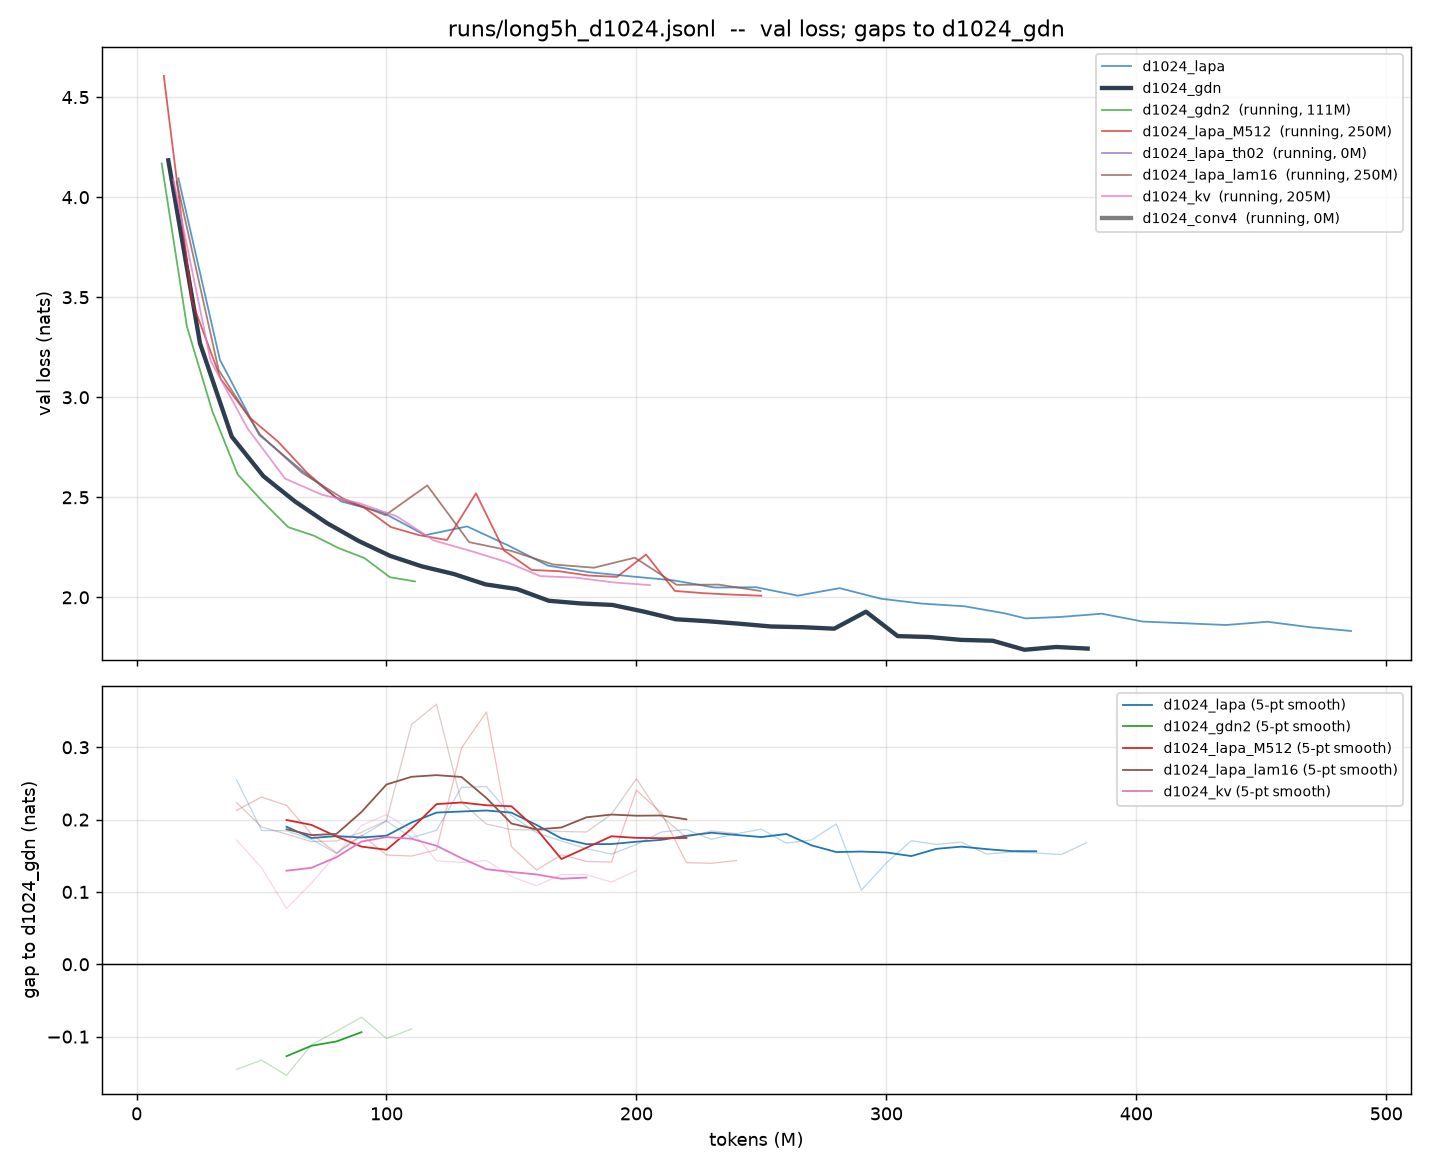
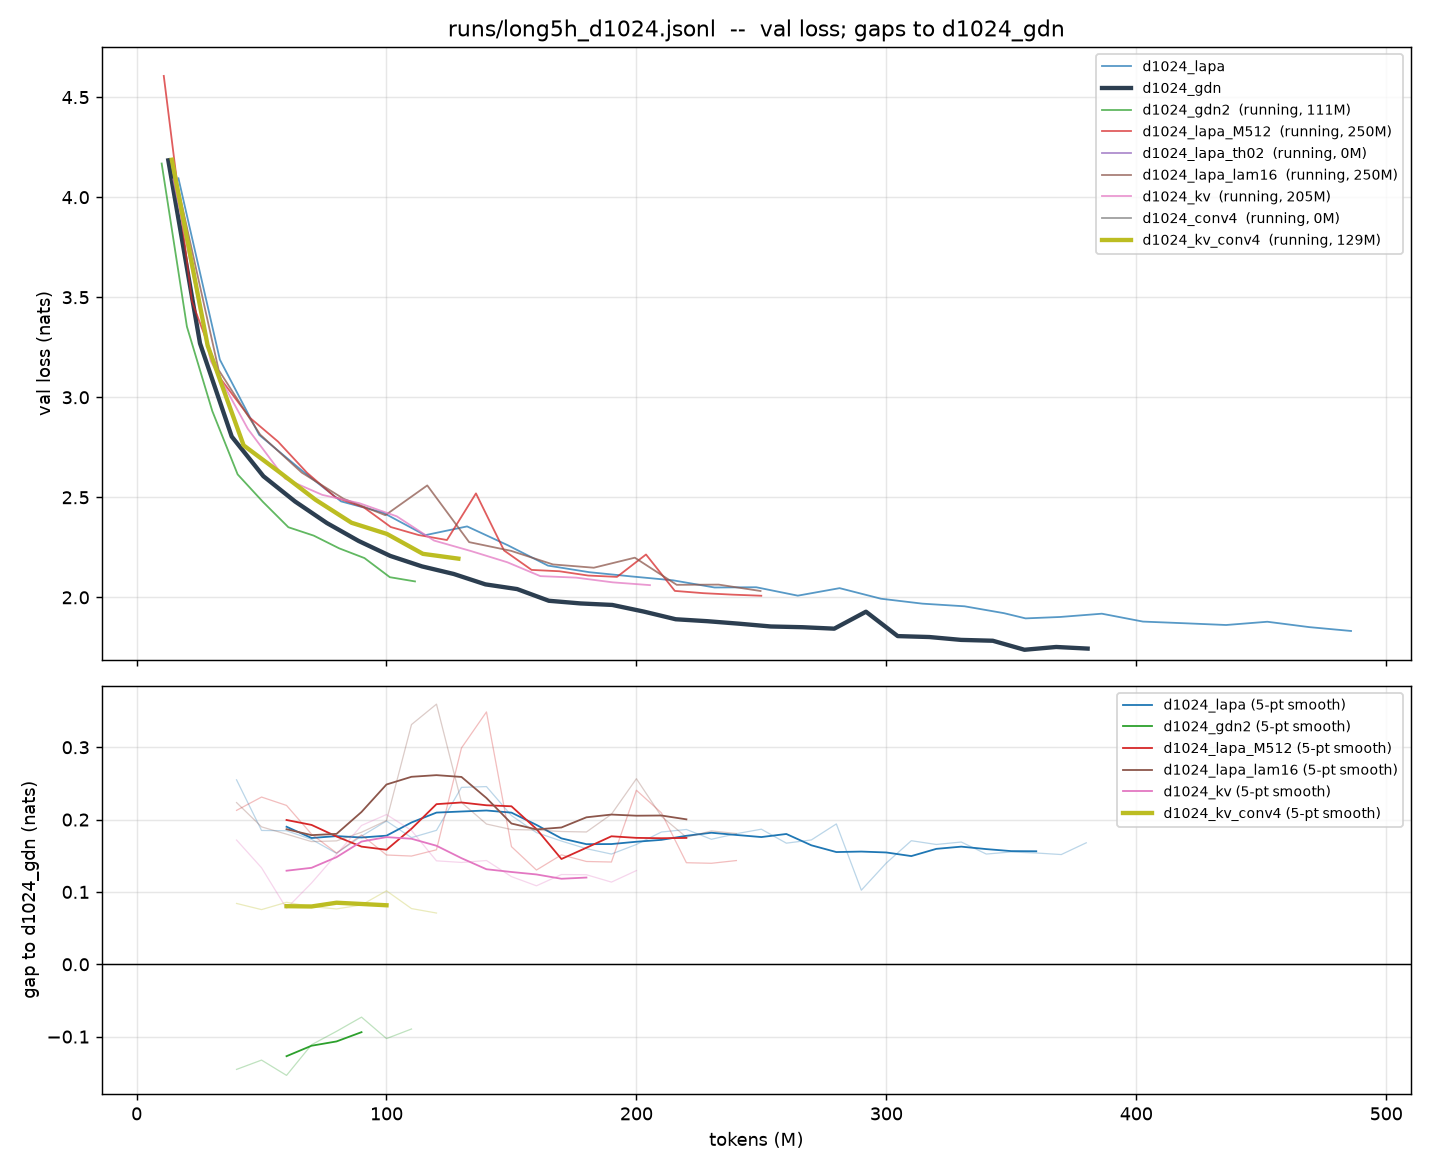
port the key-verification gate into lapa/layer.py, exact against sca2
The gate was the best mechanism at d=128 and it is now carrying the campaign's only real
progress at d=1024 -- but it only existed in sca2's mirror, which is 1.95x slower than the
optimised layer. This puts it in lapa/layer.py.

  kv_dk: int = 0 in LaplaceConfig (0 = off, so every existing gate is untouched). The long
  head's state widens from dv to dv+dk and carries a copy of the write key beside the
  value; the read gates on cos(read-back key, Kv(z_t)). It exists because neither the query
  nor the read's MAGNITUDE separates "found" from "not found" -- the read norms on new and
  repeated words are the same distribution -- so the gate needs evidence the read itself
  carries. 2.d.dk + 2 parameters.

Verified exact against the implementation it replaces, which is the point of a port:
lapa(kv_dk=16) vs sca2's cshort_damphkv is 8.88e-16 on the batched path, 8.88e-16 on the
chunk path, 8.88e-16 decode-vs-prefill, identical parameter count (7579 at the gate shape,
10.3221M/layer at d=1024 with conv), and no unmatched state-dict keys in either direction.
kv_dk=0 leaves the standing gates at 1.8e-16 against the mirror.

Kv is linear, so the stored key Kv(h_s) is Kv(z) shifted by one row -- the same trick the
optimised path already uses for K, so the port costs no extra projection.

Queued: d1024_fast_kv_conv4, the same function as the running d1024_kv_conv4 computed
faster. It buys the wall-clock reading (where LapA's case actually lives: +0.045 projected
[…]

diff --git a/lapa/layer.py b/lapa/layer.py
@@ -128,6 +128,15 @@ class LaplaceConfig:
         #       phases, the Gram's solve and the short head stay fp32 regardless.
     )
     beta_init: float = -2.0  # erase gate bias: sigmoid(-2) = 0.12 at init
+    kv_dk: int = 0  # KEY VERIFICATION (0 = off). The long head stores a copy of its own write
+    #   key beside the value, reads it back, and gates the output on whether it matches the
+    #   query's key: e_s = [V(z_s) ; Kv(h_s)], m_t = cos(Re key part, Kv(z_t)),
+    #   g_t = sigmoid(ga.m_t + gb), out = RMS(value part).g_t. A genuine match wrote its key
+    #   with h_s ~ z_t so the key read back agrees; a random mixture does not. It exists
+    #   because neither the query nor the read's MAGNITUDE distinguishes "found" from "not
+    #   found" -- measured, the read norms on new and repeated words are the same
+    #   distribution -- so the gate needs evidence the read itself carries. Port of sca2's
+    #   CHeadDeltaKV, which was the best arm at d=128. Costs 2.d.dk + 2 parameters.
     conv: int = 0  # width of a causal depthwise conv applied to z BEFORE both heads (0 = none).
     #   Every competitive linear mixer has one -- Mamba, GDN (kernel 4 on q/k/v), LFM2 -- and
     #   this layer did not. Initialised to the identity, so at init it is exactly a no-op.
@@ -206,9 +215,17 @@ class LongHead(nn.Module):
     def __init__(self, cfg: LaplaceConfig):
         super().__init__()
         d, M, dv = cfg.d, cfg.M, cfg.dv
+        # dv is what the head EMITS (2*dv, Re||Im); dvi is what the state carries. With key
+        # verification the state also carries the dk-wide key copy, so dvi = dv + dk.
+        self.dk = cfg.kv_dk
+        self.dvi = dv + self.dk
         self.d, self.M, self.dv, self.cfg = d, M, dv, cfg
         self.K = nn.Linear(d, M, False)
         self.V = nn.Linear(d, dv, False)
+        if self.dk:
+            self.Kv = nn.Linear(d, self.dk, False)
+            self.ga = nn.Parameter(torch.tensor(4.0))   # gate slope on the cosine
+            self.gb = nn.Parameter(torch.tensor(0.0))   # bias: g = 0.5 at zero evidence
         self.theta = nn.Parameter(
             torch.zeros(M)
             if cfg.theta_scale == 0.0
@@ -270,12 +287,22 @@ class LongHead(nn.Module):
             return torch.get_autocast_gpu_dtype()
         return self.wd
 
+    def _out(self, u, z):
+        """(..., 2*dvi) -> (..., 2*dv). Without key verification this is just the RMS read."""
+        if not self.dk:
+            return _rms(u)
+        dv, dvi = self.dv, self.dvi
+        re, im = u[..., :dvi], u[..., dvi:]
+        val = torch.cat([re[..., :dv], im[..., :dv]], -1)
+        m = F.cosine_similarity(re[..., dv:], self.Kv(z).to(re.dtype), dim=-1, eps=1e-6)
+        return _rms(val) * torch.sigmoid(self.ga * m + self.gb)[..., None]
+
     def init_state(self, B: int, device) -> State:
         # One (B, 2M, dv) block, rows [Re ; Im]. Keeping the two halves in ONE tensor is
         # what lets every read and write of the state be a single GEMM against a (., 2M)
         # code block instead of a pair -- see _batched.
         return {
-            "s": torch.zeros(B, 2 * self.M, self.dv, device=device, dtype=self.wd),
+            "s": torch.zeros(B, 2 * self.M, self.dvi, device=device, dtype=self.wd),
             "pos": torch.zeros((), device=device, dtype=self.wd),
         }
 
@@ -323,7 +350,7 @@ class LongHead(nn.Module):
     # ---- prefill: all full chunks batched, state loop only ----------------- #
     def _batched(self, kz, kh, vz, bz, st: State, K: int):
         B, T, _ = kz.shape
-        M, dv, C = self.M, self.dv, self.cfg.chunk
+        M, dv, C = self.M, self.dvi, self.cfg.chunk
         dev = kz.device
         gd = self._gemm_dtype(kz)
         with _no_autocast(dev):
@@ -395,6 +422,11 @@ class LongHead(nn.Module):
         # second d x M projection and the (B,T,d) shifted copy of z both disappear.
         kz, vz, bz = self.K(z), self.V(z), self.bproj(z)
         kh = torch.cat([self.K(z_prev)[:, None], kz[:, :-1]], 1)
+        if self.dk:
+            # the stored key is Kv(h_s) = Kv of the PREVIOUS token; Kv is linear, so the
+            # same shift trick as K applies and no second projection of h is needed.
+            kvz = self.Kv(z)
+            vz = torch.cat([vz, torch.cat([self.Kv(z_prev)[:, None], kvz[:, :-1]], 1)], -1)
         C = self.cfg.chunk
         K = T // C
         cut = lambda a, b: (kz[:, a:b], kh[:, a:b], vz[:, a:b], bz[:, a:b])
@@ -409,11 +441,13 @@ class LongHead(nn.Module):
                 o, st = self._chunk(*cut(s0, s0 + C), st)
                 outs.append(o)
             o = torch.cat(outs, 1)
-        return _rms(o).to(z.dtype), st
+        return self._out(o, z).to(z.dtype), st
 
     # ---- decode: one token, all float32 ------------------------------------ #
     def step(self, z_t, h_t, state: State):
         kh, kz, vz, bz = self.K(h_t), self.K(z_t), self.V(z_t), self.bproj(z_t)
+        if self.dk:
+            vz = torch.cat([vz, self.Kv(h_t)], -1)
         with _no_autocast(z_t.device):
             M = self.M
             s0 = state["s"] * self._damp(self.lam(), 1)  # (B,2M,dv)
@@ -428,8 +462,8 @@ class LongHead(nn.Module):
             c1, c2 = self.wr * cq + self.wi * sq, self.wr * sq - self.wi * cq
             qt = torch.stack([torch.cat([c1, c2], -1),
                               torch.cat([-c2, c1], -1)], 1)  # (B,2,2M)
-            u = torch.einsum("bam,bmj->baj", qt, s).reshape(z_t.size(0), 2 * self.dv) / M
-        return _rms(u).to(z_t.dtype), {"s": s, "pos": state["pos"] + 1}
+            u = torch.einsum("bam,bmj->baj", qt, s).reshape(z_t.size(0), 2 * self.dvi) / M
+        return self._out(u, z_t).to(z_t.dtype), {"s": s, "pos": state["pos"] + 1}
 
 
 # =============================================================================
@@ -462,6 +496,16 @@ class ShortHead(nn.Module):
         if torch.is_autocast_enabled() and ref.is_cuda:
             return torch.get_autocast_gpu_dtype()
         return self.wd
+
+    def _out(self, u, z):
+        """(..., 2*dvi) -> (..., 2*dv). Without key verification this is just the RMS read."""
+        if not self.dk:
+            return _rms(u)
+        dv, dvi = self.dv, self.dvi
+        re, im = u[..., :dvi], u[..., dvi:]
+        val = torch.cat([re[..., :dv], im[..., :dv]], -1)
+        m = F.cosine_similarity(re[..., dv:], self.Kv(z).to(re.dtype), dim=-1, eps=1e-6)
+        return _rms(val) * torch.sigmoid(self.ga * m + self.gb)[..., None]
 
     def init_state(self, B: int, device) -> State:
         n, L, wd = self.L - 1, self.L, self.wd
@@ -668,7 +712,8 @@ class LaplaceAttention(nn.Module):
 
     def state_floats(self) -> int:
         cfg = self.cfg
-        return 2 * cfg.M * cfg.dv + (cfg.L - 1) * (2 * cfg.L + cfg.dv) + cfg.d
+        return (2 * cfg.M * (cfg.dv + cfg.kv_dk)
+                + (cfg.L - 1) * (2 * cfg.L + cfg.dv) + cfg.d)
 
 
 # =============================================================================

diff --git a/pretrain.py b/pretrain.py
@@ -231,6 +231,10 @@ def main(argv=None):
     # GDN head shape, for --variant gdn* (whole mixer) and hyb* (D-head slot)
     p.add_argument("--Ls", type=int, default=16, help="window of the short dft C head (--variant cshort*)")
     p.add_argument("--rope-base", type=float, default=10000.0, dest="rope_base", help="long-head rope grid base (unaliased range 2*base)")
+    p.add_argument("--kv-dk", type=int, default=0, dest="kv_dk",
+                   help="key-verification width on the lapa path (0 = off, 16 matches sca2's "
+                        "cshort_damphkv). Stores the write key beside the value and gates the "
+                        "read on whether it comes back matching the query's key.")
     p.add_argument("--persist", type=float, default=0.5,
                    help="fraction of long-head modes starting persistent (lambda = 0)")
     p.add_argument("--learn-persist", action="store_true", dest="learn_persist",
@@ -281,7 +285,7 @@ def main(argv=None):
                    gated_read=a.gated_read,
                    Ls=a.Ls, rope_base=a.rope_base, slow_frac=a.slow_frac,
                    rope_min_period=a.rope_min_period,
-                   persist=a.persist, learn_persist=a.learn_persist,
+                   persist=a.persist, learn_persist=a.learn_persist, kv_dk=a.kv_dk,
                    lam_max=a.lam_max, damp_mem=tuple(float(v) for v in a.damp_mem.split(",")) if a.damp_mem else None,
                    gdn_heads=a.gdn_heads, gdn_head_k=a.gdn_head_k,
                    gdn_expand_v=a.gdn_expand_v)

diff --git a/sca2/ref.py b/sca2/ref.py
@@ -312,6 +312,8 @@ class LayerCfg:
     # raising Mc grows SCA2's state fast, so GDN needs the same lever.
     Ls: int = 16            # window of the short dft C head (arch_short.py), in tokens
     rope_base: float = 10000.0   # long-head grid omega_m = pi * base^(-m/(M-1)); unaliased range 2*base. Copy bench: base ~ T wins
+    kv_dk: int = 0               # key-verification width for the lapa path (0 = off); sca2's
+    #   cshort_damphkv hardcodes 16. See lapa.layer.LaplaceConfig.kv_dk.
     persist: float = 0.5         # fraction of long-head modes starting persistent (lambda = 0)
     learn_persist: bool = False  # no hard pin: lambda = lam_max*sigmoid(a), the gradient decides
     #   the persistent/damped split and `persist` only sets where it STARTS. Also removes the

diff --git a/sca2/arch_lapa.py b/sca2/arch_lapa.py
@@ -39,6 +39,7 @@ def config_from(cfg) -> LaplaceConfig:
         persist=cfg.persist,
         learn_persist=cfg.learn_persist,
         conv=cfg.conv,
+        kv_dk=cfg.kv_dk,
         slow_frac=cfg.slow_frac,
         max_len=cfg.max_len,
         mem_range=cfg.damp_mem,
